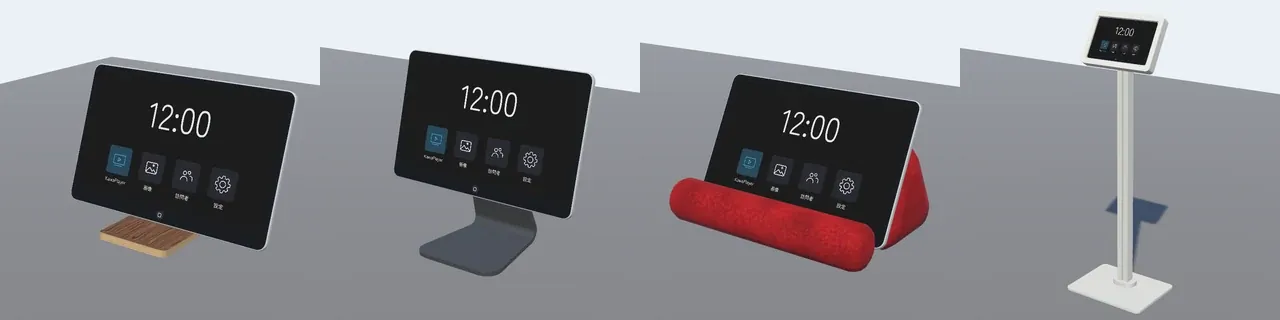
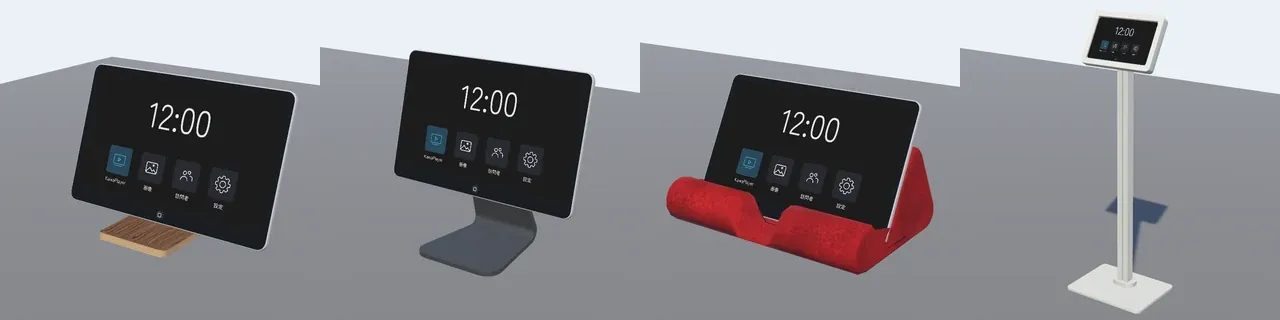
docs: the one-piece cushion and the signage's back, in the guide and CLAUDE.md (#349)

diff --git a/CLAUDE.md b/CLAUDE.md
@@ -136,7 +136,7 @@ The screen turns with the tablet (issue #183). Five times a second `TabletScreen
 
 Its holder can resize the tablet, from the size it was made (30 cm wide) to 5 times that (issue #342). The tablet is AutoHold, so its holder's trigger is the pickup's Use (`OnPickupUseDown`, which reaches only the holder, the other hand pointing at the screen): while it is held, the holding hand's stick up or down (the right stick is `InputLookVertical`, the left `InputMoveVertical`; pushed all the way, it doubles the size in a second) changes the size, and on desktop the mouse wheel with the left button held (`Input.GetAxis("Mouse ScrollWheel")`, as Udon has no `mouseScrollDelta`). The player is immobilized while the trigger is held, as the left stick walks. VRChat moves a held pickup by its own transform, so `Body` keeps its scale: `TabletSize`, on `Body/Size`, scales Body's other children (the model, the canvas and the KawaPlayer app) and the centre and size of the collider the tablet is grabbed by, about a point that stays where it is: the point of the tablet nearest the holding hand, or its middle on desktop. It is the one script that writes the KawaPlayer app's place: `TabletScreen` works out how far the app turns over and hands it the angle (`TabletSize.TurnApp`), and the app is turned first and sized after, from its pose as made, so a turn and a resize in either order, or a size that comes in, leave its screen on the tablet (when `TabletScreen` wrote the app's place itself, a turn put it back where it was before the resize, #348 review F1). Splitting the size and the turn into a parent and a child was not taken, as it would move the app, and the UdonBehaviours under its `ScreenUI`, to a new place in the hierarchy of worlds already built. The size is shared when the place is: with a VRCObjectSync on `Body` (the inspector's "Sync its place and size for everyone", on in the prefab), `TabletSize` syncs it by hand from its own object, at most five times a second while it changes (`TabletPickup` shares its object with the VRCObjectSync, which allows no manual sync, and `TabletScreen` changes owner with each press); without one, each player's tablet keeps its own size, as it keeps its own place. Letting go keeps the size; going back to its place (`ReturnToSpawn`, from the idle timer or the return button) brings back 1.
 
-The tablet stands on a stand, its place to be put down (issue #349). The prefab's origin is the stand's bottom, so a creator sets it on a table or the floor. `Tablet/Stand` holds four designs, each a child with its model and material, a `Dock` where the tablet rests and a `ButtonPlace` for the stand's own return button (`Stand/Button`, a `TabletReturnButton` like the one that stands apart, round, with the reload icon, hidden behind the tablet while it is home): the bentwood (one sheet of bent plywood, an S seen from the side, the tablet leaning on its panel's top edge, in walnut, white oak, smoked walnut and black), the aluminium stand (`Magnet`: one sheet bent into a foot running forwards and a neck coming back over it, leaning forwards so that the weight stands over the foot, which bends at its top into a tab flat behind the plate the tablet sticks to, its corners and edges rounded, in space grey, silver and black), the cushion (a wedge and a bolster, in red, grey, navy and beige) and the signage stand (`Floor`: a box with a rim on a grooved column, the screen at about 1.15 m, in white, black and silver), in the order the inspector offers them, those for a table first. The inspector names them by what they look like, アルミ (Aluminium) and サイネージ (Signage) for the last two: a magnet does nothing in a world, where every stand catches the tablet. The models are in `Assets/Models/TabletStand/`, built by the Blender scripts in its `Source~` (a few hundred triangles each), which also draw their textures: the bentwood's atlas (veneer above, the plywood's cut edge below) from free-to-use veneer photos graded to each finish (`make_textures.py`, given the folder of the photos), the cushion's fabric from noise, and small palettes for the metal ones (one per finish, the same cells in each: plain for the white signage and the space grey stand, black, silver); every material is `VRChat/Mobile/Standard Lite`. The tablet inspector (the tablet branch of `YamaPlayerSubControllerEditor`: Holding, Where it rests, Visitors App) switches the stand on and off and picks the design and colour (`TabletStandDesigns`: the chosen design on with the colour's material, the tablet's rest `TabletPickup._dock` and the button moved to it, the tablet set on it); without a stand, the return button that stands apart (`ReturnButton`) is offered again. At build and on Play, `TabletStandBuildProcess` puts the body on the rest, wherever the stand was moved, so the place the tablet starts at and goes back to is the stand's, VRCObjectSync's respawn point included, and tags EditorOnly the designs not chosen and, with a stand, the return button apart. A world keeps no component of ours beside the Udon ones, so the build and the inspector find the stand by its name. Let go by its holder, who owns it, with its middle as it shows in the world (`TabletSize.Center`, which a resize moves off the body's origin, through the scale of the body and its parents) within 30 cm of where its middle rests (`MadeCenter`, scaled as the body is, on the rest), the tablet slides onto it in 0.25 s and back to its own size (`TabletPickup.OnDrop`, `_DockFrame`, which stops if someone else takes it meanwhile). The build tells a stand switched off in the inspector (`activeSelf`) from one hidden with the tablet or a parent, which keeps its stand. The testing project keeps a scene that lays every design and colour out with its tablet, for review (`Assets/Scenes/TabletStandReview.unity`).
+The tablet stands on a stand, its place to be put down (issue #349). The prefab's origin is the stand's bottom, so a creator sets it on a table or the floor. `Tablet/Stand` holds four designs, each a child with its model and material, a `Dock` where the tablet rests and a `ButtonPlace` for the stand's own return button (`Stand/Button`, a `TabletReturnButton` like the one that stands apart, round, with the reload icon, hidden behind the tablet while it is home): the bentwood (one sheet of bent plywood, an S seen from the side, the tablet leaning on its panel's top edge, in walnut, white oak, smoked walnut and black), the aluminium stand (`Magnet`: one sheet bent into a foot running forwards and a neck coming back over it, leaning forwards so that the weight stands over the foot, which bends at its top into a tab flat behind the plate the tablet sticks to, its corners and edges rounded, in space grey, silver and black), the cushion (one piece: a wedge and a bolster on one base, the groove between them, the bolster pressed down to the groove's floor where the tablet's home button is, so it shows and can be pressed; in red, grey, navy and beige) and the signage stand (`Floor`: a box with a rim on a grooved column, which runs up into a mount on the box's back, its top cut along it; the screen at about 1.15 m; in white, black and silver), in the order the inspector offers them, those for a table first. The inspector names them by what they look like, アルミ (Aluminium) and サイネージ (Signage) for the last two: a magnet does nothing in a world, where every stand catches the tablet. The models are in `Assets/Models/TabletStand/`, built by the Blender scripts in its `Source~` (a few hundred triangles each), which also draw their textures: the bentwood's atlas (veneer above, the plywood's cut edge below) from free-to-use veneer photos graded to each finish (`make_textures.py`, given the folder of the photos), the cushion's fabric from noise, and small palettes for the metal ones (one per finish, the same cells in each: plain for the white signage and the space grey stand, black, silver); every material is `VRChat/Mobile/Standard Lite`. The tablet inspector (the tablet branch of `YamaPlayerSubControllerEditor`: Holding, Where it rests, Visitors App) switches the stand on and off and picks the design and colour (`TabletStandDesigns`: the chosen design on with the colour's material, the tablet's rest `TabletPickup._dock` and the button moved to it, the tablet set on it); without a stand, the return button that stands apart (`ReturnButton`) is offered again. At build and on Play, `TabletStandBuildProcess` puts the body on the rest, wherever the stand was moved, so the place the tablet starts at and goes back to is the stand's, VRCObjectSync's respawn point included, and tags EditorOnly the designs not chosen and, with a stand, the return button apart. A world keeps no component of ours beside the Udon ones, so the build and the inspector find the stand by its name. Let go by its holder, who owns it, with its middle as it shows in the world (`TabletSize.Center`, which a resize moves off the body's origin, through the scale of the body and its parents) within 30 cm of where its middle rests (`MadeCenter`, scaled as the body is, on the rest), the tablet slides onto it in 0.25 s and back to its own size (`TabletPickup.OnDrop`, `_DockFrame`, which stops if someone else takes it meanwhile). The build tells a stand switched off in the inspector (`activeSelf`) from one hidden with the tablet or a parent, which keeps its stand. The testing project keeps a scene that lays every design and colour out with its tablet, for review (`Assets/Scenes/TabletStandReview.unity`).
 
 ### Editor Tools (`Editor/`)
 

diff --git a/docs/guide/tablet.md b/docs/guide/tablet.md
@@ -50,7 +50,7 @@
 | --- | --- | --- |
 | **曲げ木** | 1 枚の合板を曲げた形。机に置く | ウォルナット・ホワイトオーク・スモークウォルナット・ブラック |
 | **アルミ** | アルミの台の板に貼り付ける。机に置く | スペースグレー・シルバー・ブラック |
-| **クッション** | 三角のクッションと、手前の丸い枕。机に置く | レッド・グレー・ネイビー・ベージュ |
+| **クッション** | 三角のクッションと手前の丸い枕が、底でつながった 1 つの形。ホームボタンの所は枕がへこんでいて、押せる。机に置く | レッド・グレー・ネイビー・ベージュ |
 | **サイネージ** | 支柱の上の枠に収める。床に置く（高さ 約 1.2 m） | ホワイト・ブラック・シルバー |
 
 段ごとに、上から曲げ木・アルミ・クッション・サイネージの色です（並びは表と同じ）。真ん中の丸いボタンが、戻すボタンです。
